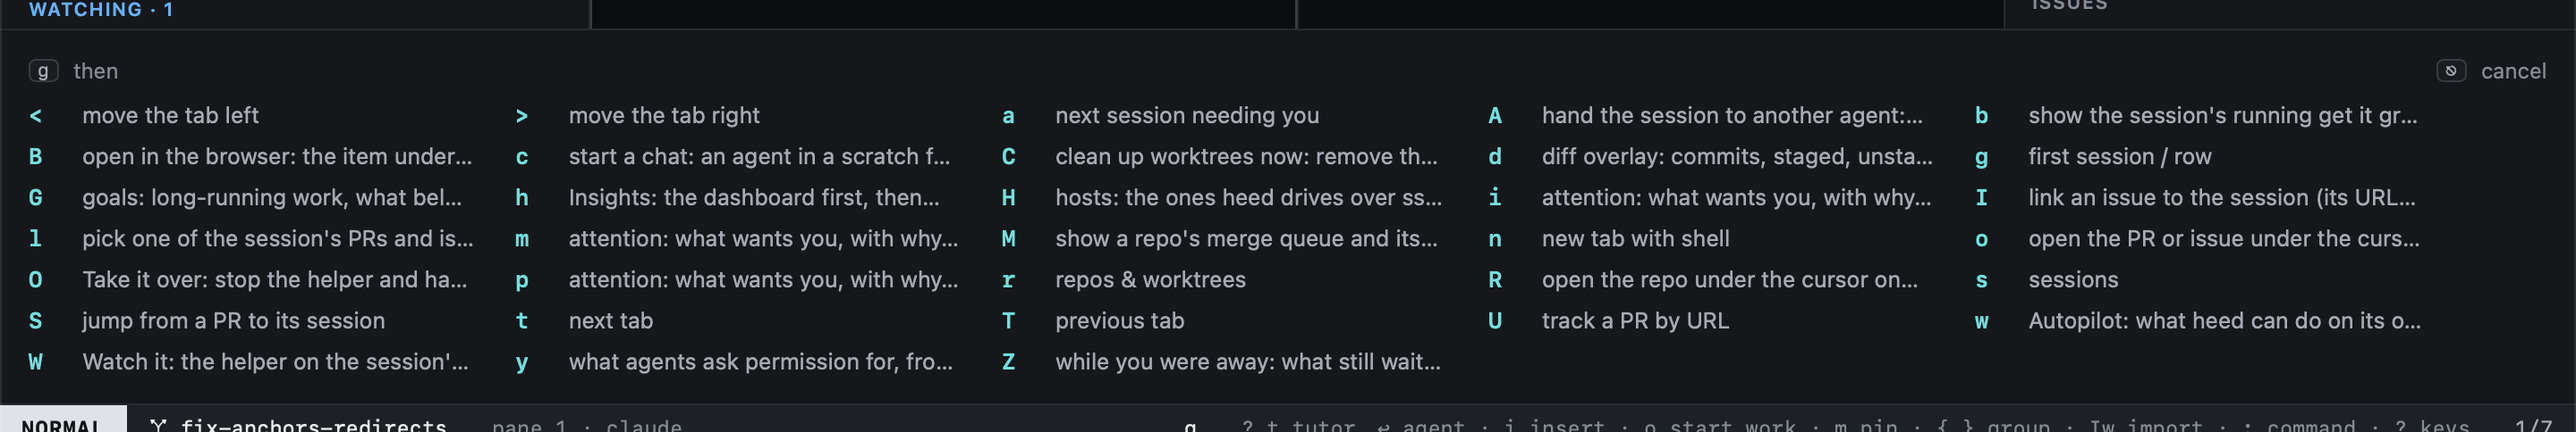
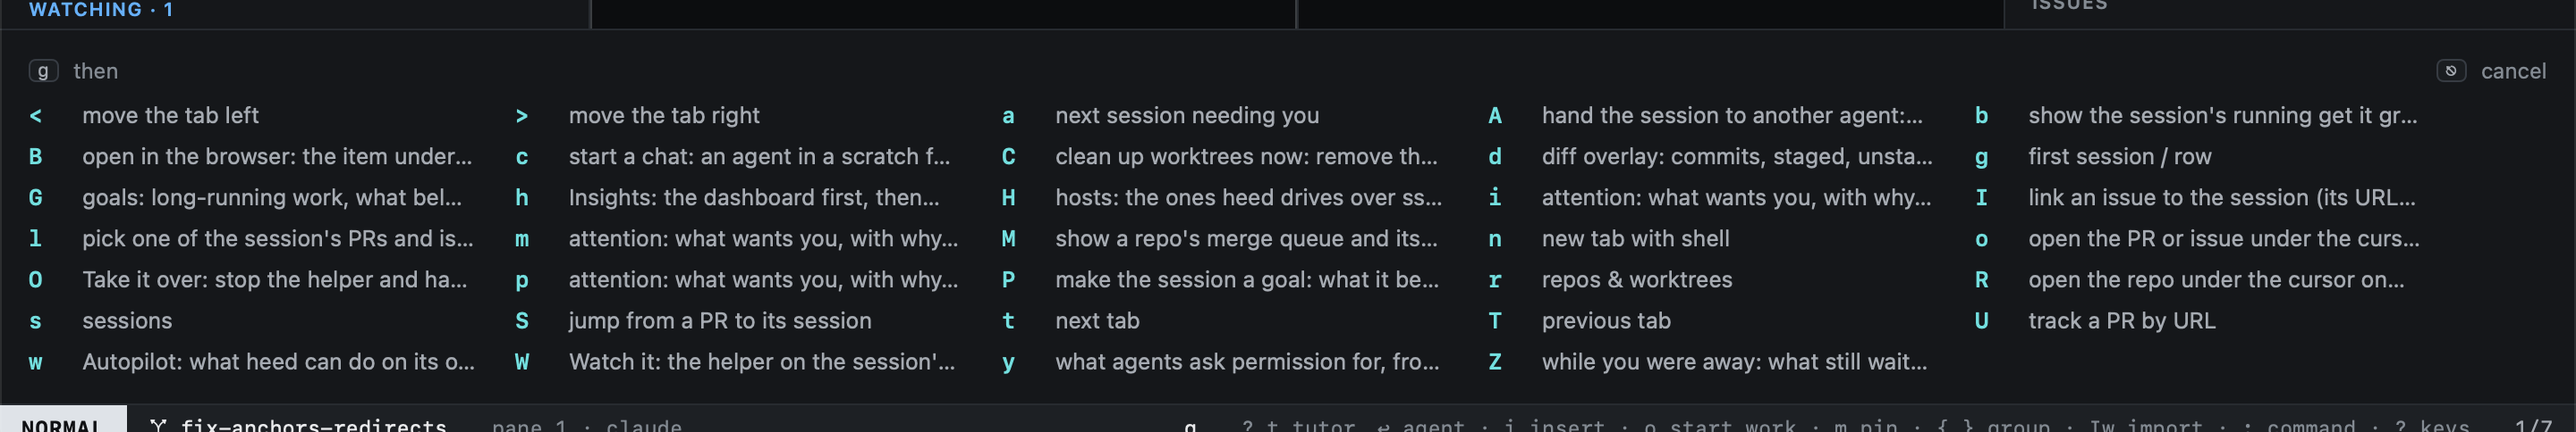
Docs: Bigger than one session, From a session, and their shots

diff --git a/docs/keyboard/reference.md b/docs/keyboard/reference.md
@@ -27,13 +27,13 @@ This page is generated from the code (`mise run shots`).
 | `session.attention` | `ga` | next session needing you |
 | `session.park` | `zz` | park session |
 | `session.close` | `x` | close session, keep worktree |
-| `session.delete` | `dd` (sessions), `dd` (sessionshelper), `dd` (sessionshelpers) | delete session and its worktrees (asks first) |
-| `session.import` `[path]` | `Iw` (sessions), `Iw` (sessionshelper), `Iw` (sessionshelpers) | import a worktree Heed does not manage yet as a session |
-| `session.import.path` | `Ip` (sessions), `Ip` (sessionshelper), `Ip` (sessionshelpers) | import the worktree at a path (any repo, anywhere) |
+| `session.delete` | `dd` (sessions), `dd` (sessionshelper), `dd` (sessionshelpers), `dd` (sessionspromote) | delete session and its worktrees (asks first) |
+| `session.import` `[path]` | `Iw` (sessions), `Iw` (sessionshelper), `Iw` (sessionshelpers), `Iw` (sessionspromote) | import a worktree Heed does not manage yet as a session |
+| `session.import.path` | `Ip` (sessions), `Ip` (sessionshelper), `Ip` (sessionshelpers), `Ip` (sessionspromote) | import the worktree at a path (any repo, anywhere) |
 | `session.pin` | `m` | pin / unpin session |
-| `session.rename` `[title]` | `R` (sessions), `R` (sessionshelper), `R` (sessionshelpers) | give the session your title, which heed keeps (no title: the command line opens with it) |
+| `session.rename` `[title]` | `R` (sessions), `R` (sessionshelper), `R` (sessionshelpers), `R` (sessionspromote) | give the session your title, which heed keeps (no title: the command line opens with it) |
 | `session.autoname` |  | let heed name the session again, from what it is doing |
-| `session.kind` `[kind]` | `K` (sessions), `K` (sessionshelper), `K` (sessionshelpers) | what the work is: feat, fix, refactor, docs, chore or plan (no argument: the next) |
+| `session.kind` `[kind]` | `K` (sessions), `K` (sessionshelper), `K` (sessionshelpers), `K` (sessionspromote) | what the work is: feat, fix, refactor, docs, chore or plan (no argument: the next) |
 | `session.back` | `''` | back to previous session |
 | `session.agent` | `<CR>` (sessions), `<CR>` (sessionshelper) | INSERT into the session's agent pane (the focused pane when it has none) |
 | `session.open` `<words>` |  | go to the session matching these words |
@@ -141,10 +141,10 @@ This page is generated from the code (`mise run shots`).
 | `inspector.copy` `<path>` |  | copy a path to the pasteboard |
 | `sidebar.toggle` | `zs` | collapse / expand the sessions sidebar |
 | `sidebar.titles` | `zt` | show session titles / worktree names in the sidebar rows |
-| `sessions.group` `[status|campaign|repo|none]` | `zG` (sessions), `zG` (sessionshelper), `zG` (sessionshelpers) | group the sessions by status, campaign, repo or not at all (no argument: the next) |
-| `sessions.sort` `[attention|touched|idle|started|size]` | `T` (sessions), `T` (sessionshelper), `T` (sessionshelpers) | sort the sessions: attention, you recent first, idle longest, started, size (no argument: next) |
-| `sessions.rows` `[one|two]` | `zR` (sessions), `zR` (sessionshelper), `zR` (sessionshelpers) | one line or two per session in the sidebar |
-| `sessions.close.ready` | `X` (sessions), `X` (sessionshelpers) | close every session in Can close (its PRs merged or closed, nothing left open), after asking |
+| `sessions.group` `[status|campaign|repo|none]` | `zG` (sessions), `zG` (sessionshelper), `zG` (sessionshelpers), `zG` (sessionspromote) | group the sessions by status, campaign, repo or not at all (no argument: the next) |
+| `sessions.sort` `[attention|touched|idle|started|size]` | `T` (sessions), `T` (sessionshelper), `T` (sessionshelpers), `T` (sessionspromote) | sort the sessions: attention, you recent first, idle longest, started, size (no argument: next) |
+| `sessions.rows` `[one|two]` | `zR` (sessions), `zR` (sessionshelper), `zR` (sessionshelpers), `zR` (sessionspromote) | one line or two per session in the sidebar |
+| `sessions.close.ready` | `X` (sessions), `X` (sessionshelpers), `X` (sessionspromote) | close every session in Can close (its PRs merged or closed, nothing left open), after asking |
 | `config.edit` |  | open config.toml in $EDITOR |
 | `tutor` `[lesson]` | `<D-T>`, `<D-T>` (INSERT) | the tutor: pick a lesson, or start one by name (tour, sessions, prs…) |
 | `tutor.hide` `[all]` |  | hide the title bar's tutor reminder for this lesson (all: every reminder) |
@@ -181,7 +181,7 @@ This page is generated from the code (`mise run shots`).
 | `history.dashboard` | `D` (dashboard), `D` (history), `D` (ledger), `D` (mindmap), `D` (standup), `D` (telemetry) | Insights' dashboard: what shipped, agent time, your bests, goals; where Insights opens |
 | `history.standup` | `U` (dashboard), `U` (history), `U` (ledger), `U` (mindmap), `U` (standup), `U` (telemetry) | Insights' standup: your questions answered per org (again: back to the dashboard) |
 | `history.telemetry` | `T` (dashboard), `T` (history), `T` (ledger), `T` (mindmap), `T` (standup), `T` (telemetry) | Insights' OpenTelemetry: the agents' own spans, latency, waits and cost (again: back to the dashboard) |
-| `session.trace` `[session]` | `t` (sessions), `t` (sessionshelper), `t` (sessionshelpers), `t` (trace), `<Esc>` (trace) | a session's trace from its agent's OpenTelemetry: its last turns, span by span (again: back) |
+| `session.trace` `[session]` | `t` (sessions), `t` (sessionshelper), `t` (sessionshelpers), `t` (sessionspromote), `t` (trace), `<Esc>` (trace) | a session's trace from its agent's OpenTelemetry: its last turns, span by span (again: back) |
 | `history.mindmap` | `M` (dashboard), `M` (history), `M` (ledger), `M` (mindmap), `M` (standup), `M` (telemetry) | Insights' Mindmap: the work grouped into campaigns, per org (again: back to the dashboard) |
 
 ## Modes
@@ -248,6 +248,9 @@ This page is generated from the code (`mise run shots`).
 | `dashboard.range` `[days]` | `r` (dashboard) | dashboard: the next range (7 days, 4 weeks, 12 weeks), or one in days or weeks (2w) |
 | `goal.new` `[title]` | `n` (goals) | new goal: a title and what it is (on a session: from its prompt, and the session on it) |
 | `goal.attach` `<goal>` |  | put the session or chat on a goal (no goal: the command line opens to pick one) |
+| `goal.promote` | `gP`, `<Esc>` (sessionspromote) | make the session a goal: what it becomes, its merged PRs done, then its plan step (again or ⎋: close) |
+| `goal.promote.go` | `<CR>` (sessionspromote), `<D-CR>` (sessionspromote) | Make it a goal: the goal made with the session on it as part 1, its plan step opens |
+| `goal.promote.dismiss` | `x` (sessionspromote) | not now: the session's "growing into a goal" line goes away |
 | `goal.detach` | `x` (goaldoc), `x` (goals) | take the session or chat off its goal |
 | `goal.archive` | `a` (goaldoc), `a` (goals) | archive the goal (again: bring it back) |
 | `goal.open` | `<CR>` (goaldoc), `<CR>` (goalevals), `<CR>` (goalpersonas), `<CR>` (goalplan), `<CR>` (goalreviewers), `<CR>` (goals), `<CR>` (unassigned) | Goals: what belongs to the goal; on a session or chat, go to it |

diff --git a/docs/start-work/sizing.md b/docs/start-work/sizing.md
@@ -1,0 +1,44 @@
+---
+navigation_title: Bigger than one session
+description: Start work sizes a longer prompt, and offers a goal when the task is bigger than one session.
+---
+
+# Bigger than one session
+
+Some prompts are more than one agent in one worktree should take on. While you type a longer prompt (twelve words or
+more), Start work sizes it once typing pauses, and again when you press `⌘↩` before it had the chance. When the task
+looks bigger than one session, a card takes the place of the fields:
+
+![Start work's card for a task bigger than one session: its rough size and three ways on](../images/shots/start-work/size-card.png)
+
+The icons give the rough size: how many parts it splits into, how many repos it touches, how many agents could work on
+it at once, and how long one agent would take for all of it. The corner says which model sized it, how long that took
+and what it cost.
+
+| Key | |
+|---|---|
+| `⌘↩` | **Make it a goal**: the goal is made from the prompt and its wizard opens on the first step, the plan |
+| `⌥↩` | **Just a session**: the work starts as it would have, with the repo, agent and worktree the header names |
+| `⌃↩` | **It's a question**: a [chat](../sessions/chats.md), no worktree; promote it when it becomes work |
+| `j` (after `⎋`) or `⇥` | The fields instead of the card, for this prompt; `⌘↩` then starts the session |
+
+The card's options take a click too. Without the card, `⌥↩` adds a line to the prompt as before.
+
+Small tasks never see any of this: a short prompt is not sized, and one that sizes as a session or a chat starts with
+`⌘↩` exactly as before. A chat, a promotion and the tutor are never sized.
+
+## How it sizes
+
+First a decision, from the [decider](../configuration/inference.md#decisions) you set up: Apple's on-device model or Hunch where they
+answer, a model call behind them. It picks one of chat, session or goal. Only when a goal looks likely does one cheap
+model call follow, through [heed's model calls](../configuration/inference.md#model-calls), for the rough size and a title for the goal.
+Both count against the daily cap. When decisions are off, or the call fails, Start work starts as it always did.
+
+Turn it off in **Settings › Start work › Size the task**, or in `config.toml`:
+
+```toml
+[start_work]
+size_check = false
+```
+
+A session that turns out bigger than it looked can still [become a goal later](../goals/index.md#from-a-session).

diff --git a/docs/goals/index.md b/docs/goals/index.md
@@ -152,6 +152,29 @@ links. `'g` jumps from a session to its goal.
 
 ![The goal in the inspector](../images/shots/goals/inspector.png)
 
+## From a session
+
+A session can grow past what it set out to do. heed notices when it has opened two PRs or more, works in a second repo
+(its own or a PR's), or its agent says it found work it did not start ("that's a change in docs-website", "a separate
+PR", "out of scope"). A quiet line at the foot of its panes says so:
+
+![A session growing into a goal: the line at the foot of its panes](../images/shots/sessions/growing.png)
+
+`gP` (or **Make it a goal** on the line, or right-click › **Make it a goal…**) shows what the goal would be: its
+statement from the session's prompt, the session's merged PRs counted as its first parts, done, and what the agent
+found, as planned parts. The session stays on the goal as its first part; nothing restarts.
+
+![Make it a goal: what the goal would be](../images/shots/sessions/make-it-a-goal.png)
+
+| Key | |
+|---|---|
+| `↩` or `⌘↩` | Make the goal and open its plan step |
+| `x` | Not now: the line goes for this session (`gP` still works) |
+| `⎋` | Close |
+
+A chat, a session already on a goal and one you said not now for never show the line. A task that looks big before it
+starts gets the same offer in [Start work](../start-work/sizing.md).
+
 ## Agents read the goal
 
 When a session or chat on a goal starts or resumes, its agent is told which goal the work belongs to, to read the

diff --git a/docs/start-work/index.md b/docs/start-work/index.md
@@ -58,6 +58,12 @@ moved pages".
 The bottom of the dialog shows the exact command the agent pane will run, and **Cancel** and **Start** buttons that do
 what `⎋` and `⌘↩` do.
 
+## Bigger than one session
+
+A longer prompt is sized as you type. When it looks bigger than one session, a card offers a goal (`⌘↩`), a session
+(`⌥↩`) or a chat (`⌃↩`) in place of the fields; small tasks start as before. See
+[Bigger than one session](sizing.md).
+
 ## With the mouse
 
 Every part of the dialog takes a click, in either mode. Clicking the prompt or the worktree name edits it; clicking a

diff --git a/docs/configuration/reference.md b/docs/configuration/reference.md
@@ -47,6 +47,9 @@ plan = ["plan", "spike", "investigate", "explore", "research"]
 # names none, the branch name's words, and the prefix when the first word picks none. On this Mac only, never sent
 # anywhere; your own picks and typing always win. Elsewhere, or false: the rules above alone.
 smart_guesses = true
+# Size a longer prompt as you type (a decision first, then one cheap model call when it looks big): a task bigger
+# than one session offers a goal, a session or a chat. Small tasks never see it. Uses [decisions] and [llm].
+size_check = true
 
 [sessions]
 default_agent = "claude"
